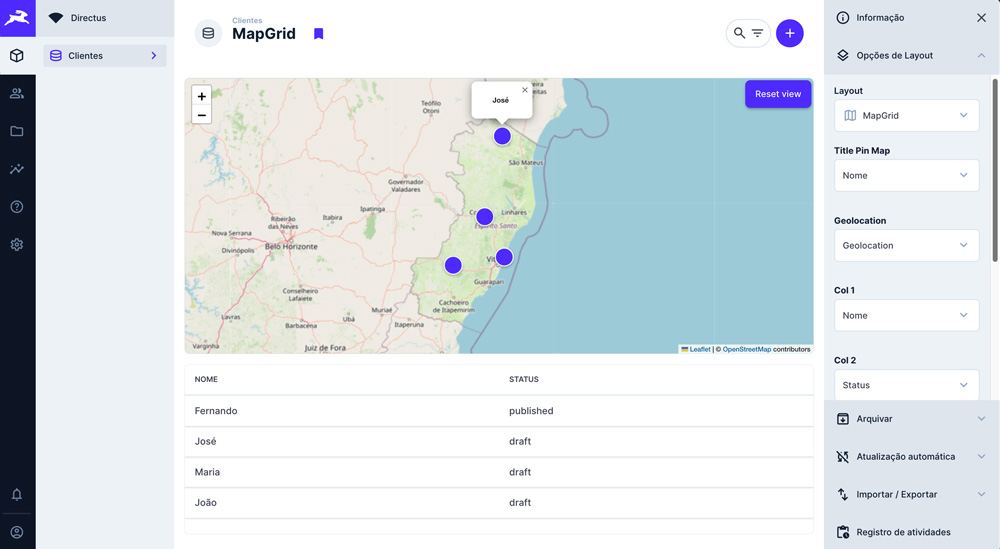
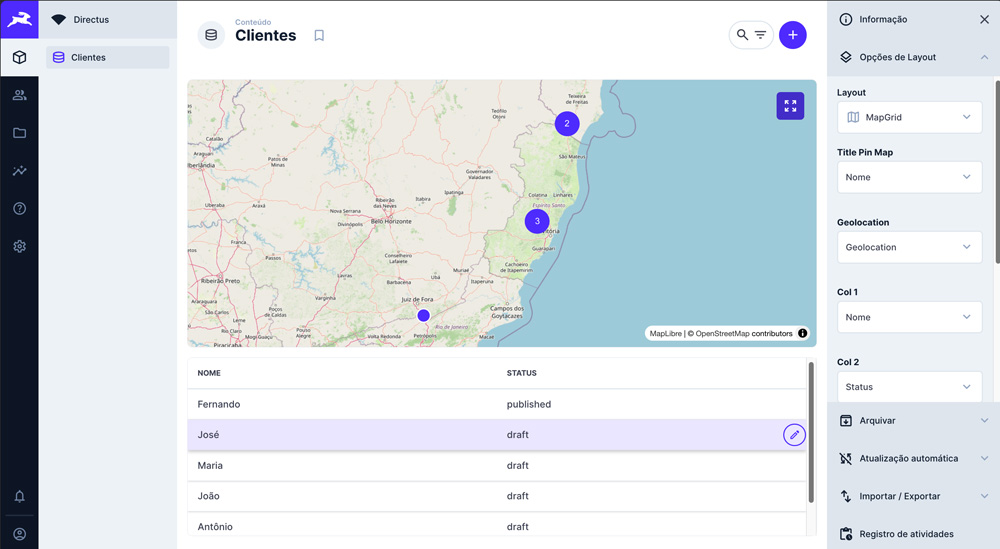
feat: Implement marker clustering in map component and optimize popup display
- Use MapLibre instead of Leaflet
- Added clustering with SVG count
- Automatically show popup on focusOnItem
- Close popups on resetMap

diff --git a/src/components/MapComponent.vue b/src/components/MapComponent.vue
@@ -1,7 +1,9 @@
 <template>
   <div class="map-wrapper">
     <div ref="mapContainer" class="map-container"></div>
-    <VButton class="reset-map-btn" @click="resetMap">Reset View</VButton>
+    <VButton class="reset-map-btn" icon @click="resetMap" title="Reset view"
+      ><VIcon name="zoom_out_map"
+    /></VButton>
   </div>
 </template>
 
@@ -25,13 +27,17 @@ const props = defineProps({
   },
 });
 
-const emit = defineEmits(['focus-on-item']);
-
 const mapContainer = ref(null);
 const map = ref(null);
-const markers = ref([]);
+const popups = ref([]); // Armazena os popups abertos
+const clusterMarkers = ref([]); // Armazena os marcadores de cluster com SVG
 
-// Initialize the map and calculate center/bounds based on items
+// Obtém a cor computada de var(--theme--primary)
+const getThemePrimaryColor = () => {
+  const style = getComputedStyle(document.documentElement);
+  return style.getPropertyValue('--theme--primary').trim() || '#007bff'; // Fallback para azul padrão
+};
+
 const initializeMap = () => {
   if (!mapContainer.value) return;
 
@@ -60,14 +66,110 @@ const initializeMap = () => {
         },
       ],
     },
-    center: [0, 0], // Temporary initial center
-    zoom: 1, // Minimum initial zoom until bounds are adjusted
+    center: [0, 0],
+    zoom: 1,
   });
 
   map.value.on('load', () => {
-    updateMarkers();
+    // Adiciona a fonte de dados com clustering
+    map.value.addSource('points', {
+      type: 'geojson',
+      data: generateGeoJson(),
+      cluster: true,
+      clusterMaxZoom: 14,
+      clusterRadius: 50,
+    });
+
+    // Camada para clusters (apenas visual de fundo)
+    map.value.addLayer({
+      id: 'clusters',
+      type: 'circle',
+      source: 'points',
+      filter: ['has', 'point_count'],
+      paint: {
+        'circle-color': [
+          'step',
+          ['get', 'point_count'],
+          getThemePrimaryColor(), // Menos de 10 pontos
+          10,
+          '#51bbd6', // 10-50 pontos
+          50,
+          '#f28cb1', // Mais de 50 pontos
+        ],
+        'circle-radius': ['step', ['get', 'point_count'], 20, 10, 30, 50, 40],
+      },
+    });
+
+    // Camada para pontos individuais
+    map.value.addLayer({
+      id: 'unclustered-point',
+      type: 'circle',
+      source: 'points',
+      filter: ['!', ['has', 'point_count']],
+      paint: {
+        'circle-color': getThemePrimaryColor(),
+        'circle-radius': 10,
+        'circle-stroke-width': 2,
+        'circle-stroke-color': '#fff',
+      },
+    });
+
+    // Clique em pontos individuais para abrir popup
+    map.value.on('click', 'unclustered-point', (e) => {
+      const coordinates = e.features[0].geometry.coordinates.slice();
+      const title = e.features[0].properties.title;
+
+      while (Math.abs(e.lngLat.lng - coordinates[0]) > 180) {
+        coordinates[0] += e.lngLat.lng > coordinates[0] ? 360 : -360;
+      }
+
+      const popup = new maplibregl.Popup()
+        .setLngLat(coordinates)
+        .setHTML(`<strong>${title}</strong>`)
+        .addTo(map.value);
+
+      popups.value.push(popup);
+    });
+
+    // Cursor pointer ao passar sobre pontos individuais
+    map.value.on('mouseenter', 'unclustered-point', () => {
+      map.value.getCanvas().style.cursor = 'pointer';
+    });
+    map.value.on('mouseleave', 'unclustered-point', () => {
+      map.value.getCanvas().style.cursor = '';
+    });
+
+    // Clique em cluster para expandir
+    map.value.on('click', 'clusters', (e) => {
+      const features = map.value.queryRenderedFeatures(e.point, { layers: ['clusters'] });
+      const clusterId = features[0].properties.cluster_id;
+      map.value
+        .getSource('points')
+        .getClusterExpansionZoom(clusterId)
+        .then((zoom) => {
+          map.value.easeTo({
+            center: features[0].geometry.coordinates,
+            zoom: zoom,
+          });
+        });
+    });
+
+    // Cursor pointer ao passar sobre clusters
+    map.value.on('mouseenter', 'clusters', () => {
+      map.value.getCanvas().style.cursor = 'pointer';
+    });
+    map.value.on('mouseleave', 'clusters', () => {
+      map.value.getCanvas().style.cursor = '';
+    });
+
+    updateClusterMarkers();
     fitMapToMarkers();
     console.log('Map loaded successfully');
+  });
+
+  // Atualiza clusters ao mudar o zoom ou mover o mapa
+  map.value.on('moveend', () => {
+    updateClusterMarkers();
   });
 
   map.value.on('error', (e) => {
@@ -75,65 +177,75 @@ const initializeMap = () => {
   });
 };
 
-// Update markers with a custom icon
-const updateMarkers = () => {
-  if (!map.value) return;
-
-  markers.value.forEach((marker) => marker.remove());
-  markers.value = [];
-
-  props.items.forEach((item) => {
-    const coords = item[props.geolocation]?.coordinates;
-    if (!coords || coords.length !== 2) {
-      console.log('Item with invalid coordinates:', item);
-      return;
-    }
-
-    const [longitude, latitude] = coords;
-
-    const markerElement = document.createElement('div');
-    markerElement.className = 'custom-marker';
-    markerElement.style.backgroundColor = 'var(--theme--primary)';
-    markerElement.style.width = '30px';
-    markerElement.style.height = '30px';
-    markerElement.style.borderRadius = '50%';
-    markerElement.style.border = '2px solid white';
-    markerElement.style.boxShadow = '0 2px 4px rgba(0, 0, 0, 0.3)';
-    markerElement.style.cursor = 'pointer';
-
-    const marker = new maplibregl.Marker({ element: markerElement })
-      .setLngLat([longitude, latitude])
-      .setPopup(new maplibregl.Popup().setHTML(`<strong>${item[props.title] || item.id}</strong>`))
-      .addTo(map.value);
-
-    markers.value.push(marker);
-  });
-  console.log('Markers updated:', markers.value);
+// Gera GeoJSON a partir dos itens
+const generateGeoJson = () => {
+  const geojson = {
+    type: 'FeatureCollection',
+    features: props.items
+      .map((item) => {
+        const coords = item[props.geolocation]?.coordinates;
+        if (!coords || coords.length !== 2) {
+          console.log('Item with invalid coordinates:', item);
+          return null;
+        }
+        return {
+          type: 'Feature',
+          geometry: {
+            type: 'Point',
+            coordinates: [coords[0], coords[1]], // [longitude, latitude]
+          },
+          properties: {
+            id: item.id,
+            title: item[props.title] || item.id,
+          },
+        };
+      })
+      .filter((feature) => feature !== null),
+  };
+  // console.log('Generated GeoJSON:', geojson);
+  return geojson;
 };
 
-// Adjust the map to show all markers
+// Ajusta o mapa para mostrar todos os pontos
 const fitMapToMarkers = () => {
-  if (!map.value || markers.value.length === 0) return;
+  if (!map.value || props.items.length === 0) return;
 
   const bounds = new maplibregl.LngLatBounds();
-  markers.value.forEach((marker) => {
-    bounds.extend(marker.getLngLat());
+  props.items.forEach((item) => {
+    const coords = item[props.geolocation]?.coordinates;
+    if (coords && coords.length === 2) {
+      bounds.extend([coords[0], coords[1]]); // [longitude, latitude]
+    }
   });
 
-  map.value.fitBounds(bounds, {
-    padding: 50,
-    maxZoom: 15,
-    duration: 1000,
-  });
+  if (!bounds.isEmpty()) {
+    map.value.fitBounds(bounds, {
+      padding: 50,
+      maxZoom: 15,
+      duration: 1000,
+    });
+  }
 };
 
 const focusOnItem = (item) => {
   if (!map.value || !item || !item[props.geolocation]?.coordinates) {
-    console.log('Unable to focus on item:', item);
+    // console.log('Unable to focus on item:', item);
     return;
   }
 
   const [longitude, latitude] = item[props.geolocation].coordinates;
+
+  // Fecha todos os popups existentes
+  closeAllPopups();
+
+  // Cria e abre um novo popup para o item focado
+  const popup = new maplibregl.Popup()
+    .setLngLat([longitude, latitude])
+    .setHTML(`<strong>${item[props.title] || item.id}</strong>`)
+    .addTo(map.value);
+
+  popups.value.push(popup);
+
   map.value.flyTo({
     center: [longitude, latitude],
     zoom: 15,
@@ -146,7 +258,69 @@ const resetMap = () => {
     console.log('Map not initialized');
     return;
   }
+  closeAllPopups(); // Fecha todos os popups ao resetar
   fitMapToMarkers();
+};
+
+// Fecha todos os popups abertos
+const closeAllPopups = () => {
+  popups.value.forEach((popup) => popup.remove());
+  popups.value = [];
+};
+
+// Atualiza os marcadores e clusters com contagem
+const updateClusterMarkers = () => {
+  if (!map.value || !map.value.isStyleLoaded()) return;
+
+  const source = map.value.getSource('points');
+  if (!source) return;
+
+  source.setData(generateGeoJson());
+
+  // Remove marcadores de cluster existentes
+  clusterMarkers.value.forEach((marker) => marker.remove());
+  clusterMarkers.value = [];
+
+  // Obtém os clusters renderizados
+  const clusters = map.value.querySourceFeatures('points', { filter: ['has', 'point_count'] });
+  console.log('Clusters found:', clusters);
+
+  clusters.forEach((cluster) => {
+    const pointCount = cluster.properties.point_count;
+    const coordinates = cluster.geometry.coordinates;
+
+    // Cria um SVG para o número do cluster
+    const svg = document.createElementNS('http://www.w3.org/2000/svg', 'svg');
+    svg.setAttribute('width', '40');
+    svg.setAttribute('height', '40');
+    const text = document.createElementNS('http://www.w3.org/2000/svg', 'text');
+    text.setAttribute('x', '50%');
+    text.setAttribute('y', '50%');
+    text.setAttribute('text-anchor', 'middle');
+    text.setAttribute('dominant-baseline', 'middle');
+    text.setAttribute('fill', '#fff');
+    text.setAttribute('font-size', '14');
+    text.setAttribute('font-family', 'Arial');
+    text.textContent = pointCount.toString();
+    svg.appendChild(text);
+
+    const markerElement = document.createElement('div');
+    markerElement.appendChild(svg);
+    markerElement.style.width = '40px';
+    markerElement.style.height = '40px';
+    markerElement.style.pointerEvents = 'none'; // Evita interferência com eventos do mapa
+
+    const marker = new maplibregl.Marker({
+      element: markerElement,
+      offset: [0, 0],
+    })
+      .setLngLat(coordinates)
+      .addTo(map.value);
+
+    clusterMarkers.value.push(marker);
+  });
+
+  map.value.setPaintProperty('unclustered-point', 'circle-color', getThemePrimaryColor());
 };
 
 onMounted(() => {
@@ -156,7 +330,7 @@ onMounted(() => {
 watch(
   () => props.items,
   () => {
-    updateMarkers();
+    updateClusterMarkers();
     fitMapToMarkers();
   },
   { deep: true }
